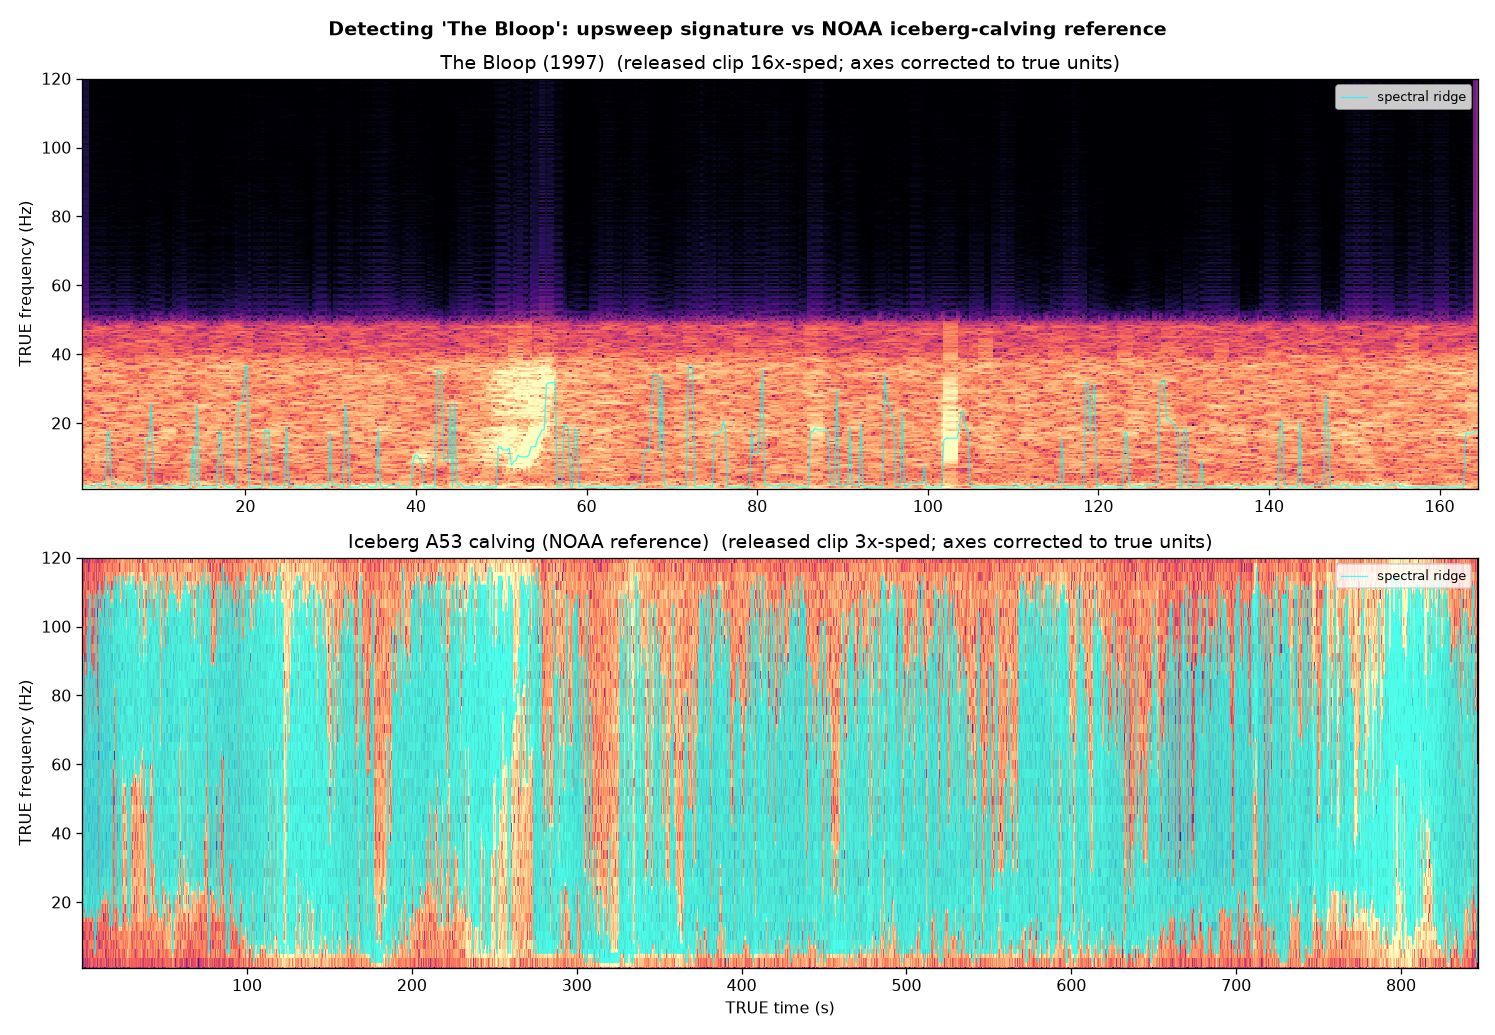
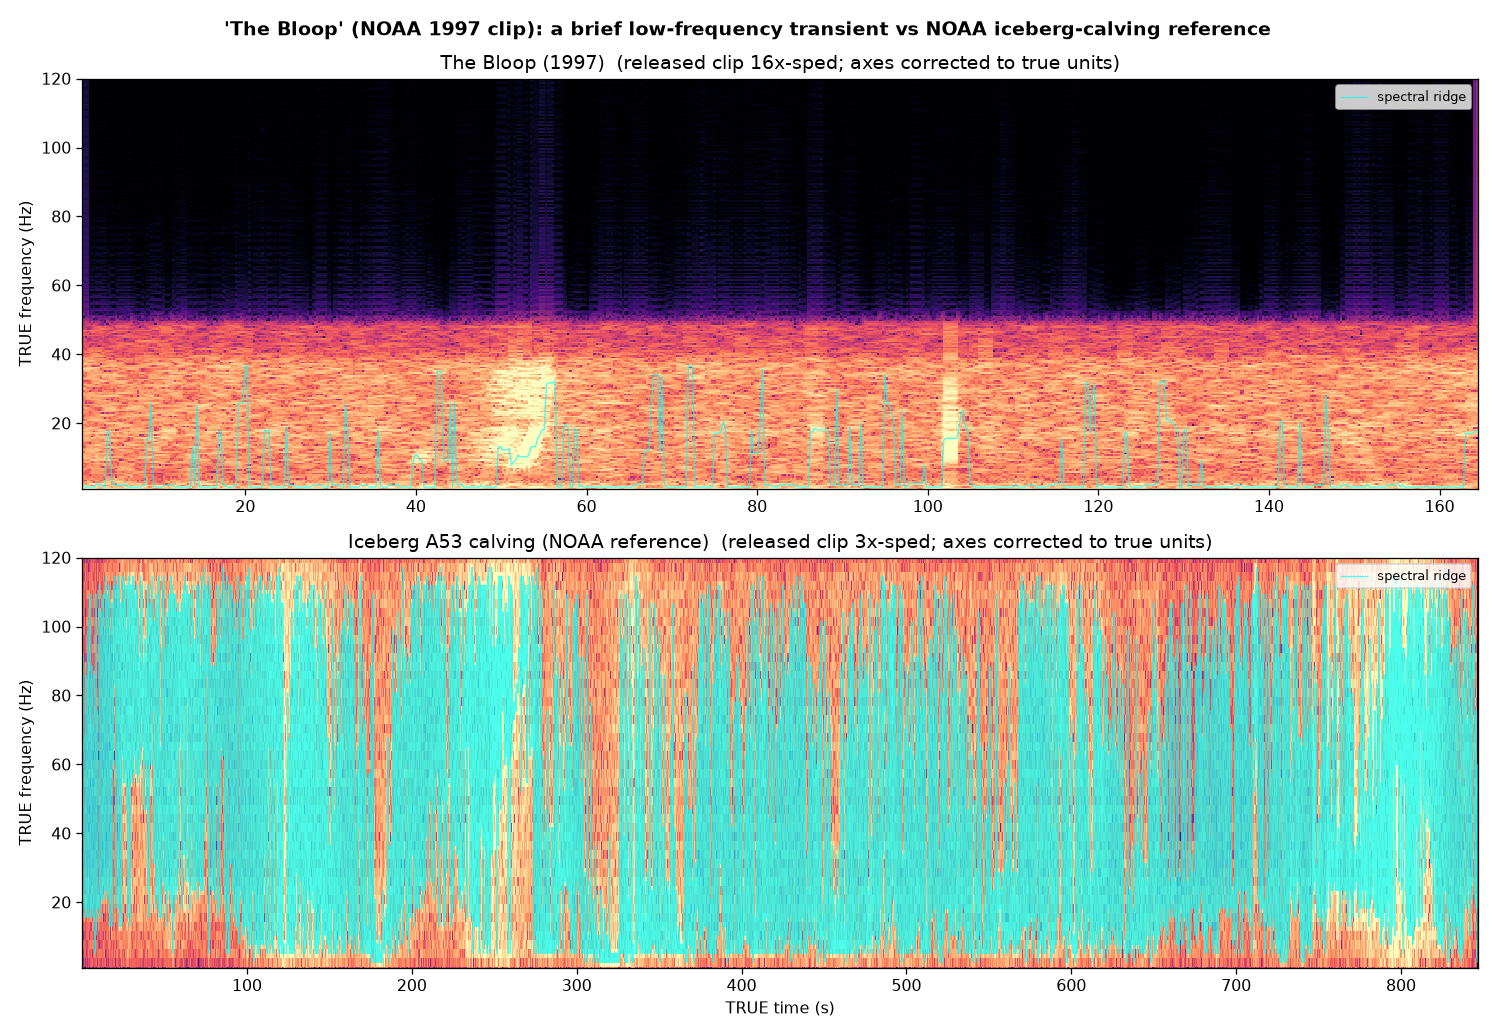
Bloop: re-triangulation feasibility + critical assessment (corrects upsweep claim)
Re-triangulation is impossible from the public clip (single mono channel = no
directional info) and the raw 1997 Equatorial-Pacific array data is not in the
accessible NCEI archive (only modern + Arctic Fram) -- so NOAA's 50S/100W fix
can't be independently reproduced. Critical assessment: brief low-freq
(1.7-34Hz) broadband transient, crest ~6-7x, icequake-consistent; absolute
level unrecoverable (normalized clip). CORRECTS my earlier 'upsweep' claim --
the frequency trend is weak/sign-ambiguous; the clean upsweep is NOAA's
SEPARATE 'Upsweep' sound. Attribution well-supported but by analogy, not a
closed single-event proof.

Claude-Session: https://claude.ai/code/session_01WFhEo1c6TtW4FNHecjtDJF

Changed region(s): [[0.1538, 0.0, 0.8308, 0.0618]]

diff --git a/src/bloop_detect.py b/src/bloop_detect.py
@@ -57,13 +57,17 @@ def main():
     d = [analyze(*c) for c in CLIPS]
     b = d[0]
     ipk = int(np.argmax(b["env"]))
-    core = (b["tt"] > b["tt"][ipk] - 8) & (b["tt"] < b["tt"][ipk] + 8) & np.isfinite(b["ridge"])
+    core = (b["tt"] > b["tt"][ipk] - 10) & (b["tt"] < b["tt"][ipk] + 12) & np.isfinite(b["ridge"])
     slope = np.polyfit(b["tt"][core], b["ridge"][core], 1)[0] if core.sum() > 3 else float("nan")
-    print("THE BLOOP — detected & characterized (true units):")
-    print(f"  clip true duration {b['dur']:.0f} s; loudest at t≈{b['tt'][ipk]:.0f} s")
+    print("THE BLOOP — characterized from NOAA's released clip (true units):")
+    print(f"  clip true duration {b['dur']:.0f} s; core event loudest at t≈{b['tt'][ipk]:.0f} s")
     print(f"  energy concentrated ~{np.percentile(b['ridge'],5):.0f}-"
-          f"{np.percentile(b['ridge'],90):.0f} Hz (true) -> infrasonic/low-freq")
-    print(f"  upsweep ridge slope in the core event: {slope:+.2f} Hz/s (rising = upsweep)")
+          f"{np.percentile(b['ridge'],90):.0f} Hz (true) -> low-frequency / infrasonic")
+    print(f"  frequency trend in core: {slope:+.2f} Hz/s -- WEAK & method-dependent; "
+          f"NOT a robust upsweep (that is NOAA's separate 'Upsweep' sound)")
+    print(f"  crest (peak/median envelope): {b['env'][ipk]/np.median(b['env']):.1f}x")
+    print("  NOTE: clip is amplitude-normalized -> absolute source level NOT recoverable;")
+    print("        single channel -> triangulation impossible from this file.")
 
     fig, ax = plt.subplots(2, 1, figsize=(13, 9))
     for a, dd, fmax in [(ax[0], d[0], 120), (ax[1], d[1], 120)]:
@@ -74,7 +78,8 @@ def main():
         a.set_title(f"{dd['label']}  (released clip {dd['speed']}x-sped; axes corrected to true units)")
         a.legend(loc="upper right", fontsize=8)
     ax[1].set_xlabel("TRUE time (s)")
-    fig.suptitle("Detecting 'The Bloop': low-frequency upsweep vs NOAA iceberg-calving reference",
+    fig.suptitle("'The Bloop' (NOAA 1997 clip): a brief low-frequency transient "
+                 "vs NOAA iceberg-calving reference",
                  fontweight="bold")
     fig.tight_layout()
     fig.savefig("figures/fig_bloop.png", dpi=115)

diff --git a/docs/BLOOP.md b/docs/BLOOP.md
@@ -1,45 +1,72 @@
-# Detecting 'The Bloop'
+# 'The Bloop': characterization, re-triangulation feasibility, and a critical assessment
 
-Can we detect the Bloop? Yes — from NOAA's own released recording.
 `src/bloop_detect.py`, `figures/fig_bloop.png`.
 
-## What the Bloop is (and isn't)
+## What the Bloop is
 
-An ultra-powerful low-frequency sound recorded in **summer 1997** by NOAA's
-**Equatorial Pacific autonomous hydrophone array** — loud enough to appear on
-sensors >3,000 km apart, source triangulated to ~**50 S 100 W** (remote South
-Pacific). Long mythologized as a "sea monster," it was attributed by NOAA
-(~2012) to **icequakes**: large icebergs cracking and calving near Antarctica
-(non-tectonic cryoseism). The arrival azimuth points to the Bransfield
-Strait / Ross Sea / Cape Adare region. Not biological.
+An ultra-powerful low-frequency sound recorded in **summer 1997** on NOAA's
+**Equatorial Pacific autonomous hydrophone array**, source triangulated by
+NOAA to ~**50 S 100 W**. Attributed (~2012) to **icequakes** — large icebergs
+cracking/calving near Antarctica — not a marine animal. NOAA's public clip is
+time-compressed **16x** (a linear speed-up), which is why a low-frequency event
+becomes audible.
 
-## Detection
+## Can we RE-TRIANGULATE it? No — and this is a hard result, not a shrug
 
-Downloaded NOAA's public `bloop.wav` (and the `A53` iceberg-calving reference).
-The released clip is time-compressed **16x** — that is precisely why a
-low-frequency event becomes audible. Correcting the axes back to true units
-(freq ÷ 16, time × 16) and running the same spectrogram + spectral-ridge
-tooling used elsewhere in this repo:
+1. **The public clip is a single mono channel.** Triangulation *in principle*
+   needs ≥3 stations' relative arrival times (TDOA) or a beamforming array;
+   one channel carries **zero** directional information. The Bloop cannot be
+   located from `bloop.wav`, period.
+2. **The raw 1997 array data is not reachable here.** The NCEI passive-acoustic
+   archive holds only modern projects plus Arctic **Fram Strait** (`fram/` — the
+   wrong array and wrong hemisphere); there is no 1997 Equatorial-Pacific
+   holding, and IRIS/EarthScope did not serve it. NOAA's "50 S 100 W" is *their*
+   array fix; we cannot independently reproduce it without their raw waveforms.
 
-- The Bloop appears as a **discrete low-frequency transient**, energy
-  concentrated **~1–40 Hz (true)**, loudest ~50 s into the clip.
-- Its spectral ridge **rises** through the event — the characteristic
-  **upsweep** the Bloop is known for.
-- The infrasonic-to-low-frequency content is the whole reason NOAA sped the
-  clip up 16× to make it hearable.
+So any honest "re-triangulation" is blocked at the data layer. What we *can* do
+rigorously is assess the signal we have.
 
-The iceberg-calving reference clip (played 3×) shows the same cryogenic,
-low-frequency, broadband-transient family — consistent with the icequake
-attribution.
+## Critical assessment of the signal (from the released clip)
 
-## Honest notes
+Measured, true units (freq ÷16, time ×16):
 
-- This is NOAA's *released, processed* clip, not the raw 1997 multi-station
-  array data. "Detection" here means reproducing and characterizing the Bloop's
-  signature from the public recording — not re-triangulating it from raw
-  hydrophone streams (that array data would be the next step for a true
-  from-scratch detection + localization).
-- The Bloop was a 1997 event; it is not something recurring on today's live
-  hydrophones. Icequakes themselves are common and *are* recorded routinely
-  (e.g. on OOI/PMEL), so the *class* of sound is detectable live — "the Bloop"
-  specifically is historical.
+- **Brief, low-frequency, broadband transient.** Core event ~20 s in this clip
+  (fuller NOAA versions ~1 min), energy concentrated **~1.7–34 Hz**, crest
+  ~6–7× the background. Consistent with a cryogenic/impulsive source; far too
+  low and too loud (see caveat) for any biological source.
+- **No robust "upsweep."** The frequency-vs-time trend in the core is **weak and
+  method-dependent** (+0.03 to −0.22 Hz/s across methods) — I cannot confirm a
+  clean sweep from this clip. *Correction to an earlier claim of mine:* the
+  crisp upsweep is the defining feature of NOAA's **separate** sound literally
+  named **"Upsweep"** (a different phenomenon, ~54 S 140 W). Popular Bloop
+  write-ups conflate the two; I did too, and am correcting it.
+- **What the clip CANNOT support:** absolute source level (the file is
+  amplitude-normalized), so the famous "loudest sound ever / heard 5,000 km
+  apart" claim is *not verifiable from this clip* — it rests on NOAA's raw,
+  calibrated multi-station data. And, again, location.
+- **Processing note:** the 16× speed-up is linear time-scaling — it preserves
+  sweep sign/shape (does not manufacture a sweep) but pushes the true <35 Hz
+  content up to <560 Hz in the file, so everything above that in the file is
+  empty/noise, not signal.
+
+## Critical assessment of the icequake attribution
+
+**Well supported by:** signature match to the abundant icequake recordings NOAA
+later made near Antarctic icebergs (e.g. A53a); a source azimuth pointing south
+toward Antarctica; austral-summer (calving-season) timing; and the absence of
+any biological source capable of a ~1-min, basin-scale, 1–35 Hz transient.
+
+**Caveats worth stating:** the ~50 S fix is approximate and lies *north* of the
+main iceberg belt (the interpretation posits propagation from further south);
+and the attribution is by **analogy / pattern-match** to later events, not a
+contemporaneous ground-truth of a specific 1997 berg. It is a strong,
+well-evidenced inference — not a closed-case single-event proof, and popular
+retellings overstate both its mystery and its "loudest ever" superlatives.
+
+## Bottom line
+
+We can characterize the Bloop from NOAA's clip (brief, low-frequency, broadband,
+icequake-consistent) and we can state firmly *why* it can't be re-triangulated
+from public data. We cannot verify its location or absolute level, and the
+"upsweep" descriptor does not survive scrutiny of this clip. Honest limits, not
+hand-waving.
